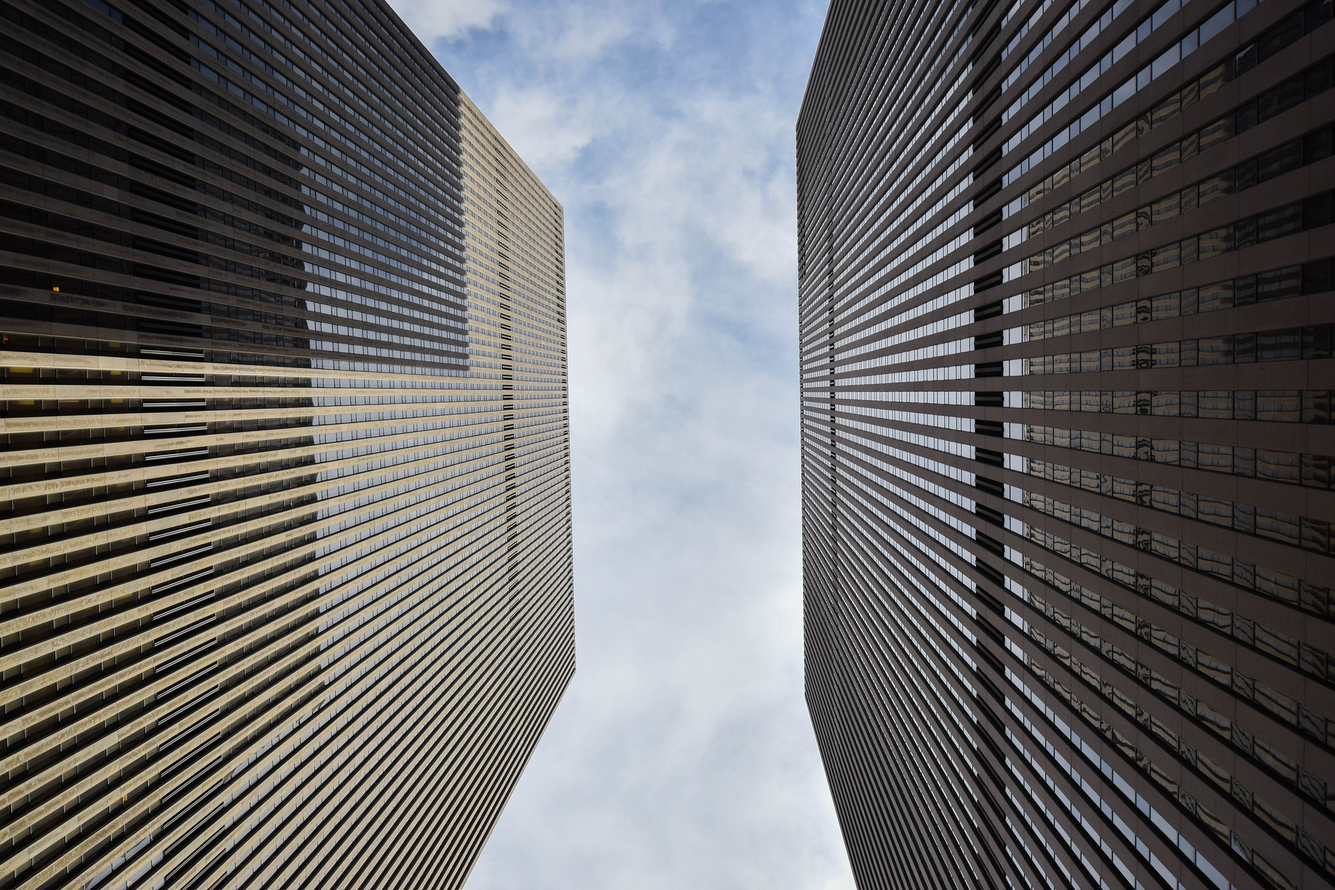
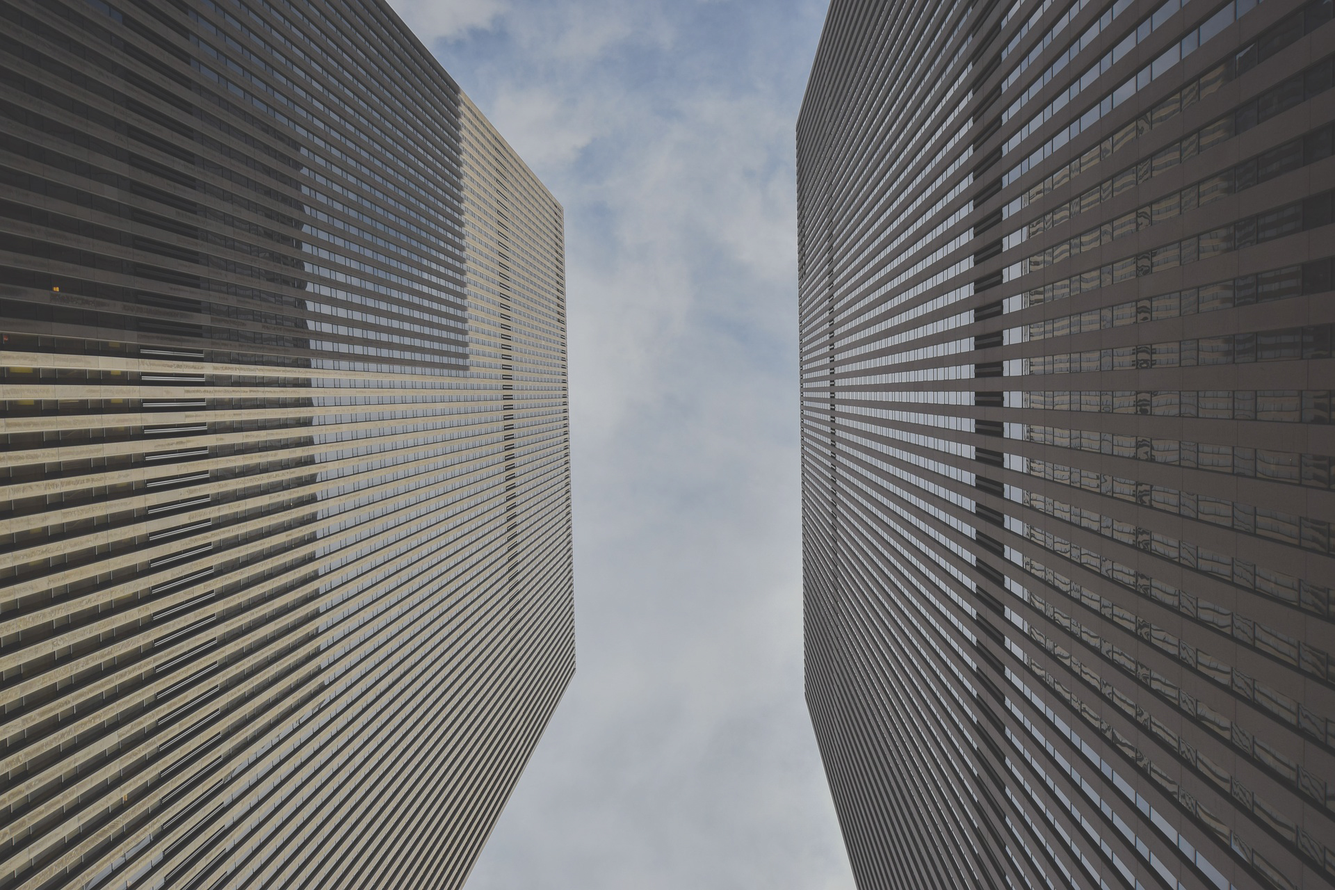
Mudança design index

diff --git a/estilo.css b/estilo.css
@@ -11,7 +11,7 @@ html, body, .capa{
 
 
 body {
-	background: url('images/fundo306.jpg');
+	background: url('images/fundo309.jpg');
 	background-size: 100%;
 	background-attachment: fixed;
 	font-family: Verdana, Arial, sans-serif;
